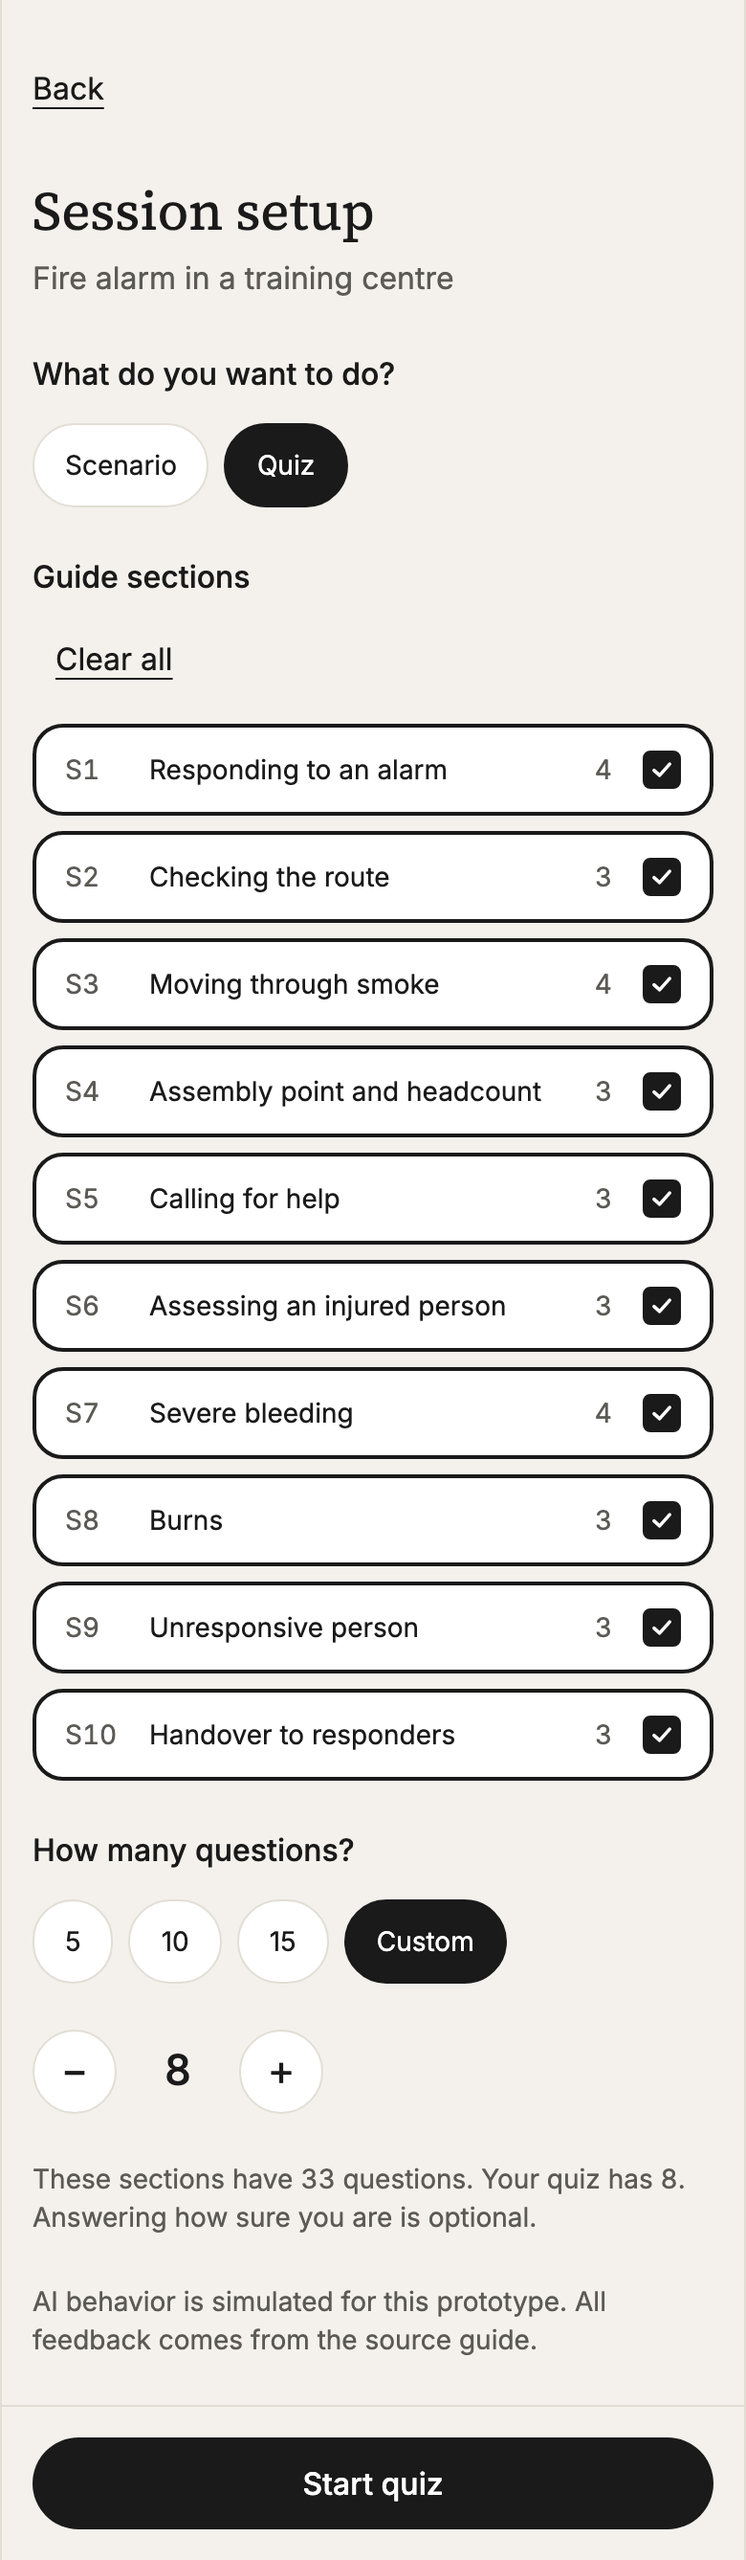
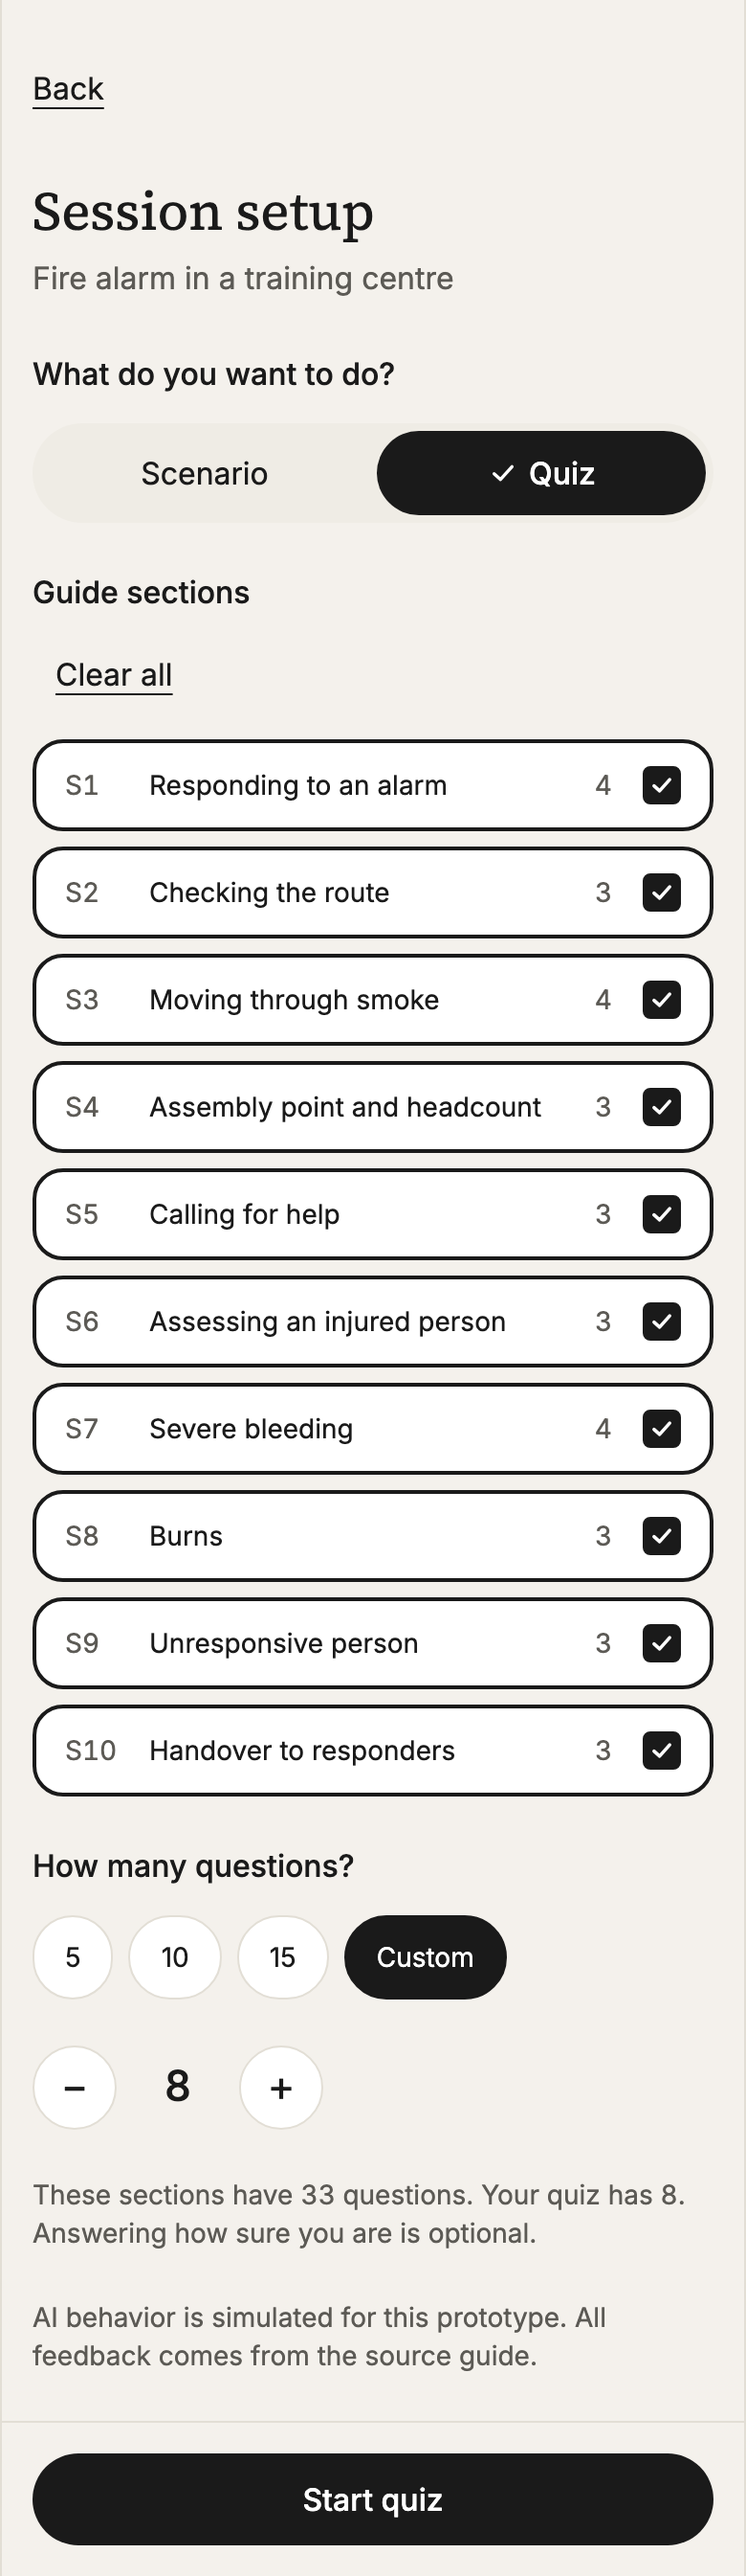
feat: segmented control for scenario or quiz in session setup
A full-width soft grey track with the selected option as a black pill with
a check icon, at least 44px high, built on native radios so arrow keys work.

diff --git a/components/SegmentedControl/SegmentedControl.tsx b/components/SegmentedControl/SegmentedControl.tsx
@@ -1,0 +1,62 @@
+/**
+ * A full-width choice between a few options. Native radio buttons underneath, so arrow keys move
+ * the selection and Tab enters and leaves the group. The selected option is a black pill with a
+ * check icon and medium weight, so the state does not rely on colour alone.
+ */
+export function SegmentedControl<T extends string>({
+  name,
+  legend,
+  options,
+  value,
+  onChange,
+}: {
+  name: string;
+  legend: string;
+  options: { value: T; label: string }[];
+  value: T;
+  onChange: (value: T) => void;
+}) {
+  return (
+    <fieldset className="flex flex-col gap-3">
+      <legend className="mb-3 font-medium">{legend}</legend>
+      <div className="flex gap-1 rounded-full bg-surface-muted p-1">
+        {options.map((option) => {
+          const checked = option.value === value;
+          return (
+            <label
+              key={option.value}
+              className={`flex min-h-11 flex-1 cursor-pointer items-center justify-center gap-1.5 rounded-full px-3 text-base has-focus-visible:outline-2 has-focus-visible:outline-offset-2 has-focus-visible:outline-accent ${
+                checked ? "bg-primary font-medium text-primary-text" : "text-text hover:bg-border"
+              }`}
+            >
+              <input
+                type="radio"
+                name={name}
+                value={option.value}
+                checked={checked}
+                onChange={() => onChange(option.value)}
+                className="sr-only"
+              />
+              {checked && (
+                <svg
+                  viewBox="0 0 24 24"
+                  width="16"
+                  height="16"
+                  fill="none"
+                  stroke="currentColor"
+                  strokeWidth="2.5"
+                  strokeLinecap="round"
+                  strokeLinejoin="round"
+                  aria-hidden="true"
+                >
+                  <path d="M5 12.5 10 17l9-10" />
+                </svg>
+              )}
+              {option.label}
+            </label>
+          );
+        })}
+      </div>
+    </fieldset>
+  );
+}

diff --git a/components/SessionSetup/SessionSetup.tsx b/components/SessionSetup/SessionSetup.tsx
@@ -5,6 +5,7 @@ import { BackLink } from "@/components/BackLink/BackLink";
 import { Button } from "@/components/Button/Button";
 import { ChoiceCard } from "@/components/ChoiceCard/ChoiceCard";
 import { PillGroup } from "@/components/PillGroup/PillGroup";
+import { SegmentedControl } from "@/components/SegmentedControl/SegmentedControl";
 import { useSourceSheet } from "@/components/SourceSheet/SourceSheet";
 import { Stepper } from "@/components/Stepper/Stepper";
 import { Tag } from "@/components/Tag/Tag";
@@ -88,7 +89,7 @@ export function SessionSetup({
         <p className="text-text-secondary">{scenario.title}</p>
       </div>
 
-      <PillGroup
+      <SegmentedControl
         name="mode"
         legend="What do you want to do?"
         options={[
